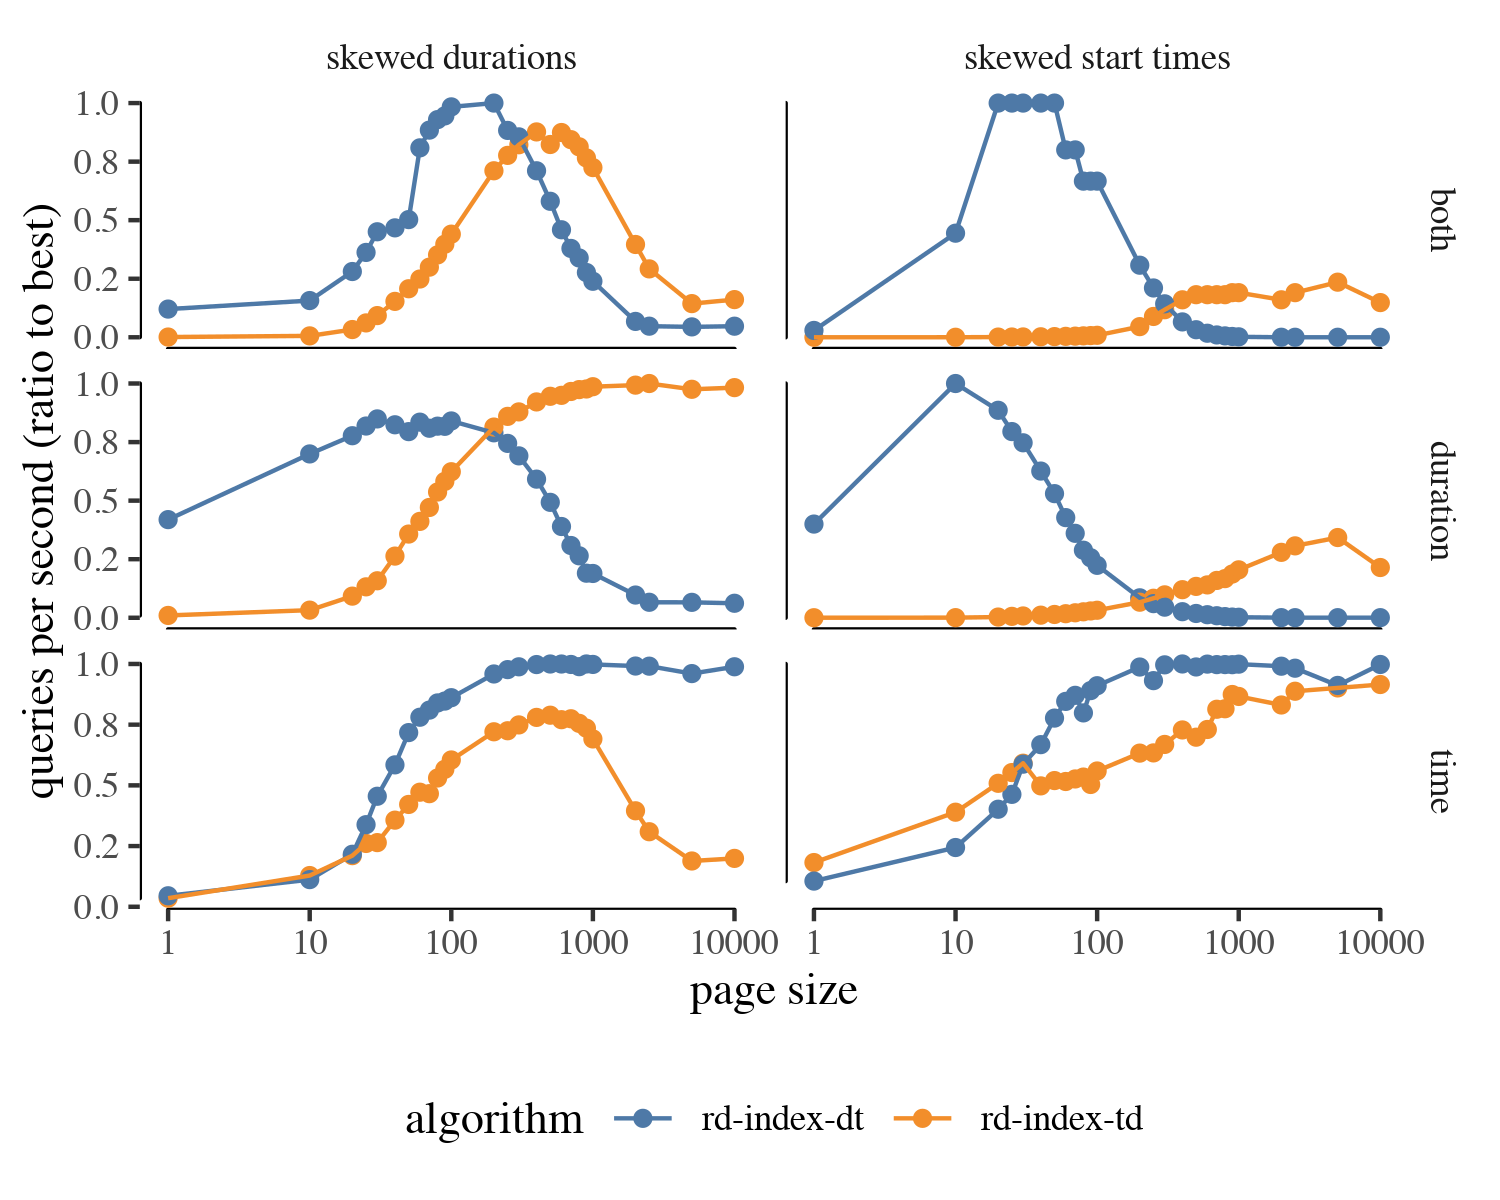
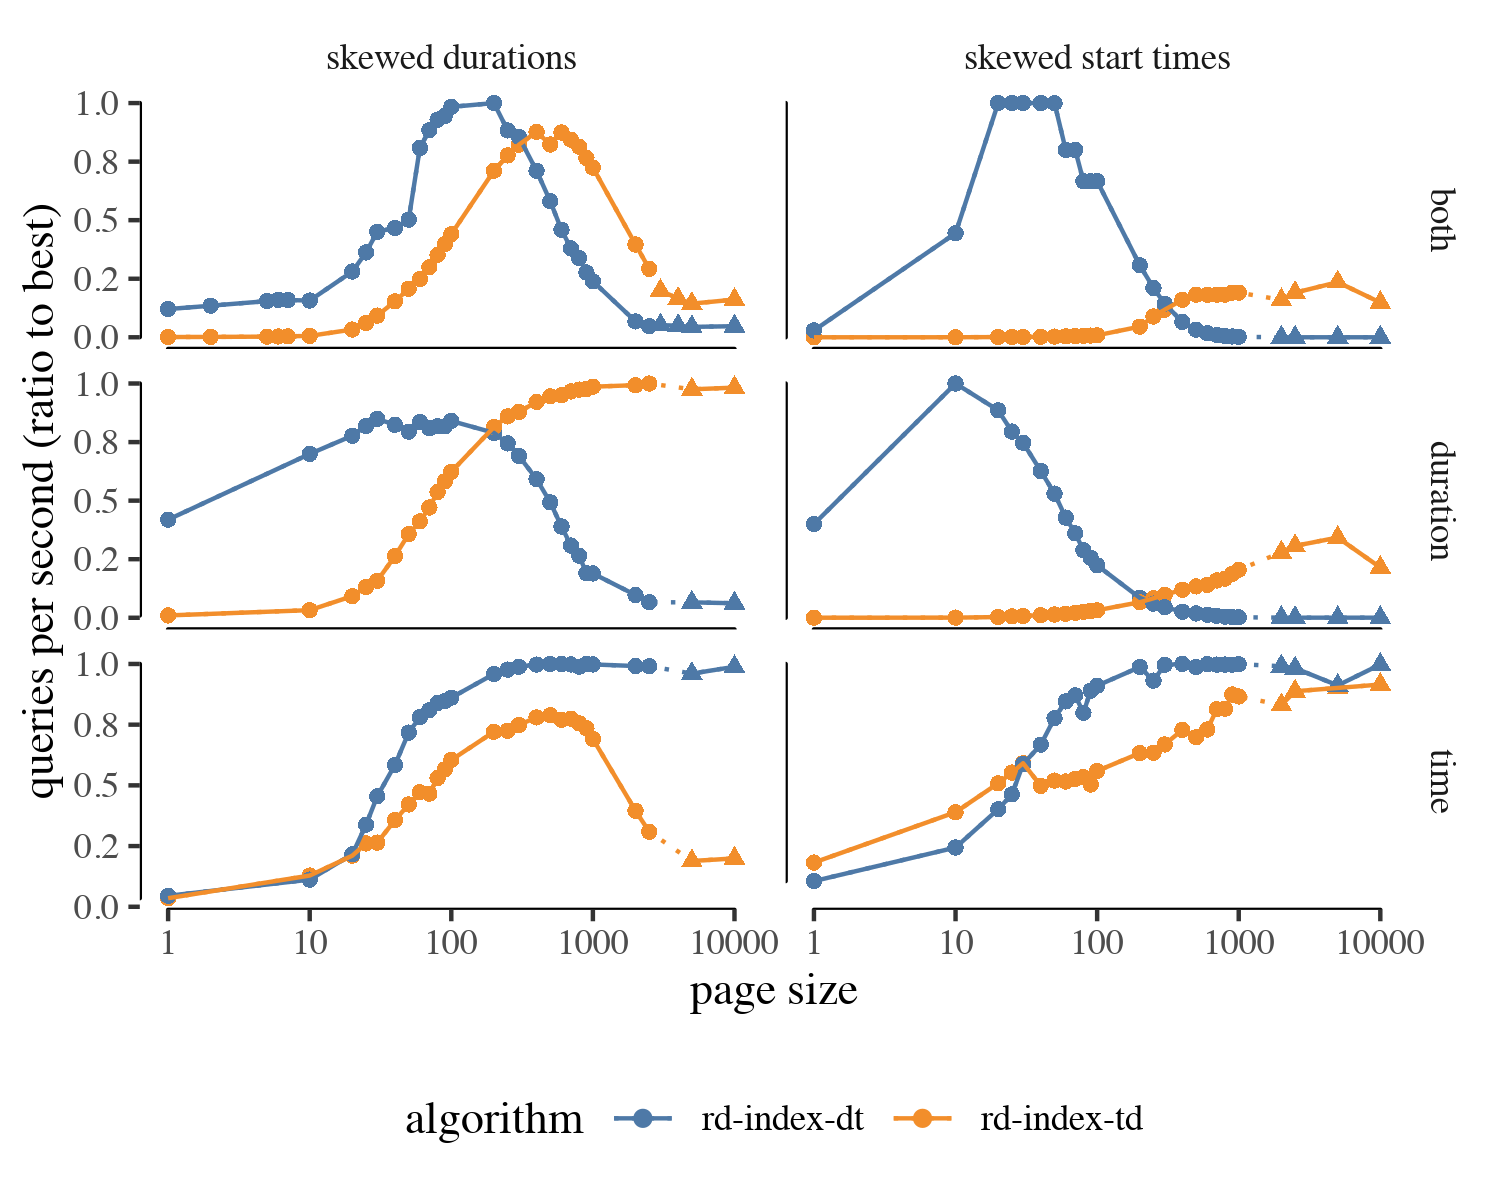
Discuss the dependency on parameters

diff --git a/paper/temporal-index.tex b/paper/temporal-index.tex
@@ -1240,69 +1240,56 @@ This is especially true for duration-only queries (blue dots).
 	\Description{}
 \end{figure}
 
-To test the dependency of the query time on the \emph{page size} parameter, we consider
-a dataset with 10 million intervals with starting times both uniformly
-distributed between 0 and 10 million 
-and durations distributed according to a
-Zipf's law with $\beta = 1$; and a dataset of the same size with 
-Zipf-distributed start times and uniformly distributed durations.
-The aim is to investigate the influence of the parameters when the skew is either in the
-time or in the duration dimension.
-As for the query workload, we consider batches of 20\,000 \qrd, \qro, and \qdo queries.
+To test the dependency of the query time on the \emph{page size} parameter, 
+we consider two datasets with 10 million intervals each. The first datasets has 
+uniform start times and skewed durations (with Zipf distribution), the second
+has skewed start times and uniformly distributed durations.
+As for the query workload, we consider batches of 10\,000 \qrd, \qro, and \qdo queries.
+The aim is to investigate the influence of the parameters in different scenarios, in particular the influence
+of the order in which dimensions are indexed.
+We vary the page size between 1 and 10\,000. Note that, due to the size of the dataset, any page size above 
+$\sqrt{10\cdot 10^6} \approx 3\,162$ results in a degenerate configuration where
+there is a single column containing all the intervals. In this case the intervals are 
+partitioned according to a single dimension, with the number of cells controlled by the page size parameter.
+This situation might happen also at lower values of the page size parameter, depending on the number 
+of distinct values in the dimension being partitioned.
+On the other hand, for page size $1$, each cell of the grid contains all and only intervals with the
+same start time and duration. Querying the data structure in this case amounts to performing binary searches
+directly on the values of the domains of start times and durations.
 
-Figure~\ref{fig:param-dependency} reports the results of varying the order of the dimensions
-index under these different workloads, in terms of queries per second.
+Figure~\ref{fig:param-dependency} reports the results of this experiment,
+in terms of queries per second. To ease the comparison between the subplots, we rescale
+the reported throughput by the highest value for a each combination of dataset and query workload.
+Degenerate configurations resulting in a single column are reported as triangles rather than dots.
+
 We observe very different trends for different query workloads.
-Consider first \qrd queries.
-For data with uniform start times we have that there is an optimal value for the page size, which
-is slightly smaller for the duration-time ordering.
-For larger values the performance degrades.
-If the start times are zipf-distributed, instead, the performance profile of the two orderings
-is very different: indexing first the time and then the duration favors selecting large values
-for the page size parameter, whereas indexing first the duration and then the start time shows
-the opposite behavior.
-A very similar trend can be observed for \qdo queries.
-On the other hand, for \qro queries the index performs best when larger pages are used, under both
-orderings.
+Consider first \qrd queries on the dataset with skewed durations.
+In this case, both orderings of dimensions exhibit a similar behavior, with peak performance
+reached by intermediate values of the page size.
+If we consider \qdo queries, instead, the profile changes. Indexing first by duration (blue line) slightly
+favors smaller page sizes, which imply smaller columns and thus a more fine grained access to the data.
+Indexing first by time, instead, requires a \qdo to traverse all the columns: in this scenario high page 
+sizes are favored, since they translate in fewer columns to be iterated through.
+For \qro we observe a symmetric pattern.
 
-The reason for this performance profile is to be found in the asymmetry of range-duration queries:
-when querying for a time range, grouping the intervals by duration can help in examining fewer intervals,
-since the overlap predicate can be rewritten as a function of the start time and the duration of the intervals;
-conversely, the query for a duration range does not benefit from a partitioning of the time domain, since
-the duration of an interval is independent of its position on the timeline.
-Therefore, when evaluating \qro queries we benefit from a finer partitioning
+When data has skew on the start times, instead, the patterns exhibited
+by the two indexing orders are rather different.
+First, we note that the gap between the best configurations of the two indexing orders is
+much wider than with the other dataset.
+Second, while the indexing first by duration exhibits a similar pattern on both datasets,
+indexing first by start time performs best in the degenerate case of a single column , 
+therefore with no partitioning of the start times at all.
+This might come as a surprise, but the reason lies in the asymmetry of the role that duration
+and timeline position have in queries.
+When querying for durations, the position of start times on the timeline does 
+not affect the outcome of a query.
+Conversely, a range query involves comparing both the start and the end time of intervals:
+such comparison can be rephrased in terms of start times and durations.
+Therefore, range queries can benefit from a partition of the duration dimension, since it
+implies a partition of the end times.
 
-
-
-If we move our attention, instead, to \qdo queries, we see
-that increasing the page size is detrimental, with performance staying approximately the
-same up until around page size 100.
-This is also in line with our expectations: a larger page size means a coarser partitioning
-of the dataset.
-All the intervals in cells in the same duration column are considered as being part of the output,
-therefore having less duration columns forces each query to evaluate more non-matching intervals,
-thus increasing the running time.
-
-Conversely, the performance improves with the page size for \qro queries.
-In this case having fewer duration columns means that fewer groups of cells
-will need to be queried, thus improving performance.
-
-\mc{
-\begin{itemize}
-\item For a fixed page size, the gap between the two orderings is up to
-  three orders of magnitude
-\item I can't explain the behaviour for time only queries\dots I would
-	expect the time-duration order to perform better at high page counts (as it does)
-	and the duration-time order to perform better at low/intermediate page
-	counts, since then we have few columns to explore
-\item It is true, however, that the time part of the query is also constrained
-	by the duration part of the query: to evaluate the overlap with the query
-	we have to consider both the start and end times, but their relationship is
-	dictated by the duration: in this respect having the partitioning by
-	duration also helps in reducing the number of evaluated intervals!
-\item From the figure we can see that the behaviour is dictated by the duration part of the queries
-\end{itemize}
-}
+Overall, we observe that indexing first by duration has either better or comparable performance compared to indexing by time first.
+Therefore, we recommend to choose the former ordering of dimensions when building an \ours.
 
 \section{Scalability with respect to the input size}
 \label{sec:scalability}
